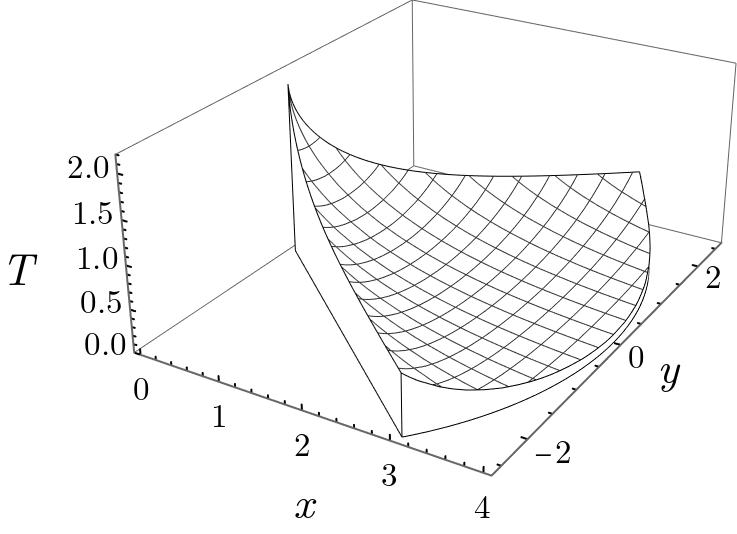
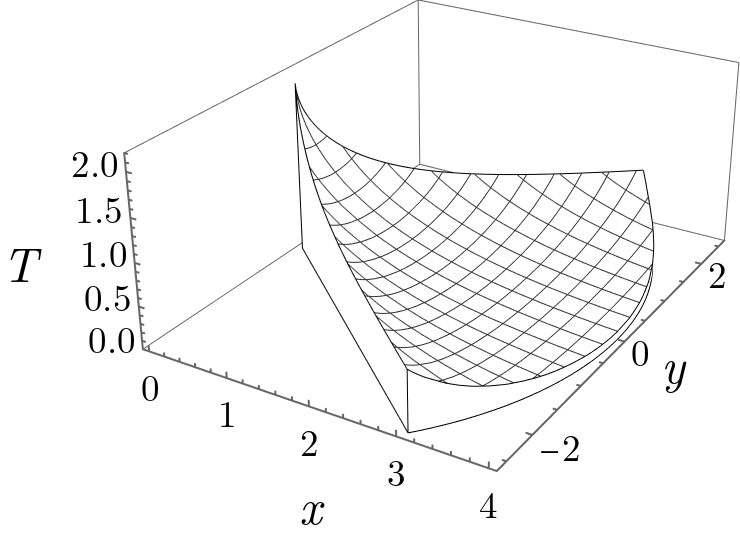
Moderate: consistentise wedge solution figures
See yawnoc/phd-code@55c1b2bf8d.

diff --git a/moderate.tex b/moderate.tex
@@ -815,7 +815,7 @@ as in Figure~\ref{fig:wedge_acute-borderline-asymptotic-comparison}.
 \end{figure}
 
 \begin{figure}
-  \newcommand*{\subfigurewidth}{6.5cm}
+  \newcommand*{\subfigurewidth}{0.45\textwidth}
   \centering
   \hspace*{\fill}
   \begin{subfigure}[t]{\subfigurewidth}
